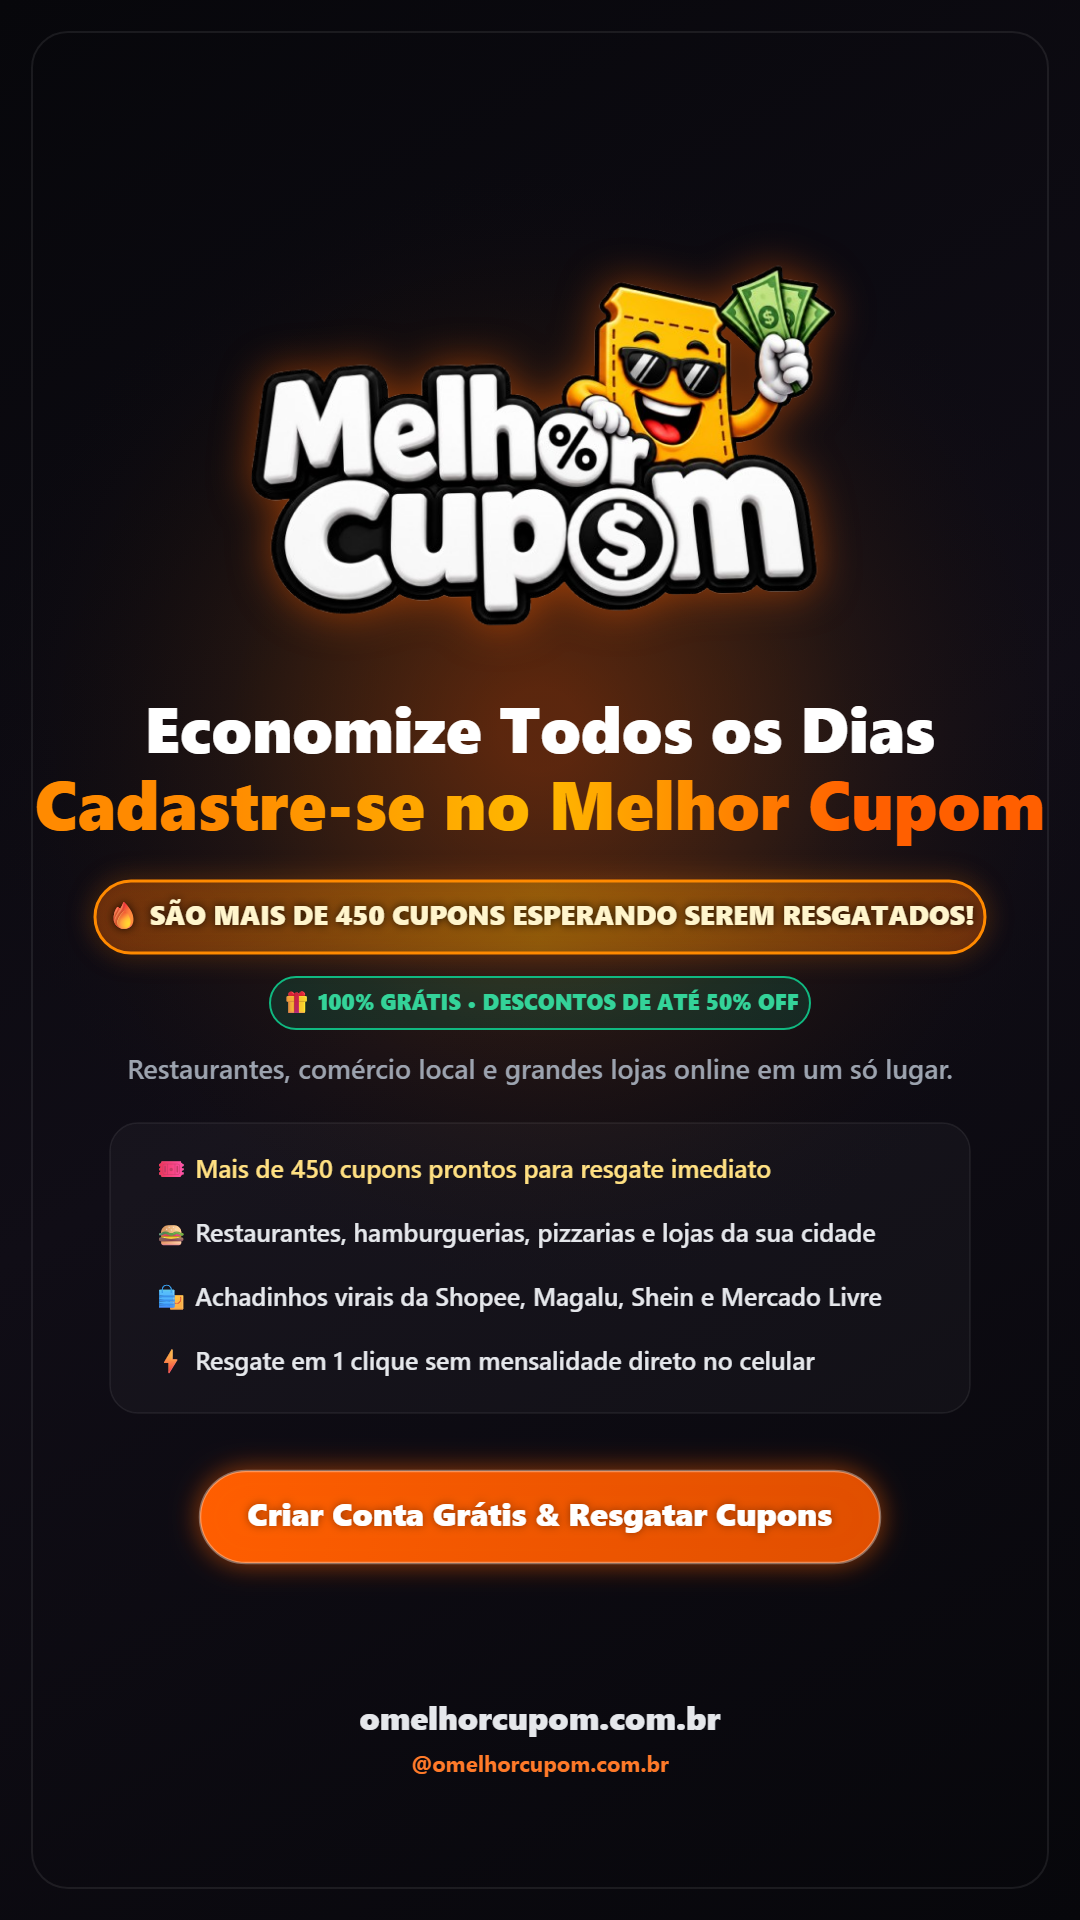
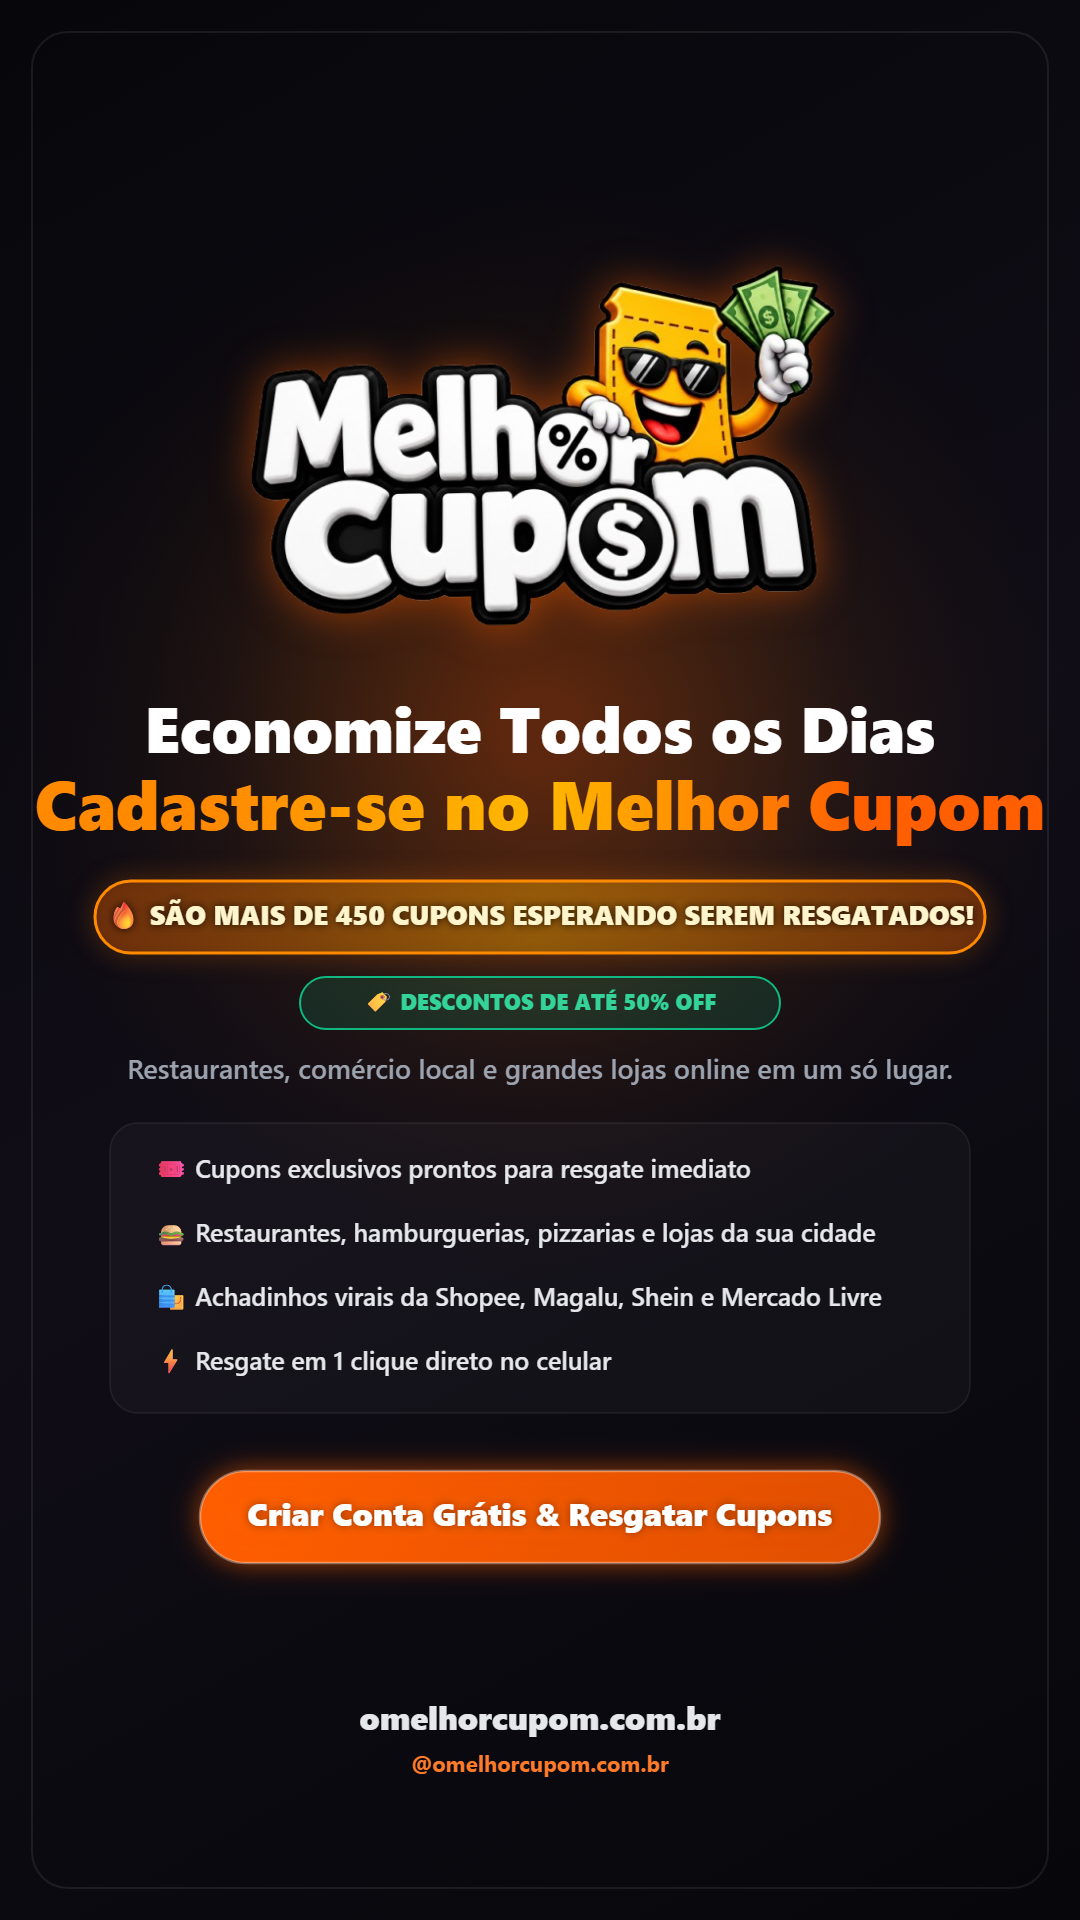
refactor(flyer): remover duplicacao de 450 cupons, remover 100% gratis e retirar sem mensalidade

Changed region(s): [[0.2444, 0.5, 0.7639, 0.5625], [0.1833, 0.5938, 0.7028, 0.625], [0.3972, 0.6875, 0.7639, 0.7188]]

diff --git a/src/components/BrandMediaKitSection.jsx b/src/components/BrandMediaKitSection.jsx
@@ -332,9 +332,9 @@ export const BrandMediaKitSection = ({ compact = false }) => {
     ctx.fillText('🔥 SÃO MAIS DE 450 CUPONS ESPERANDO SEREM RESGATADOS!', width / 2, badgeY + badgeH / 2 + 1);
     ctx.restore();
 
-    // 6. Selo Elegante e Minimalista: "🎁 100% GRÁTIS • ATÉ 50% OFF"
+    // 6. Selo Elegante: "DESCONTOS DE ATÉ 50% OFF"
     const pillY = badgeY + badgeH + (isStory ? 24 : 16);
-    const pillW = isStory ? 540 : 430;
+    const pillW = isStory ? 480 : 380;
     const pillH = isStory ? 52 : 38;
     const pillX = (width - pillW) / 2;
 
@@ -351,7 +351,7 @@ export const BrandMediaKitSection = ({ compact = false }) => {
     ctx.font = isStory ? '900 22px "Inter", "Segoe UI", sans-serif' : '900 16px "Inter", "Segoe UI", sans-serif';
     ctx.textAlign = 'center';
     ctx.textBaseline = 'middle';
-    ctx.fillText('🎁 100% GRÁTIS • DESCONTOS DE ATÉ 50% OFF', width / 2, pillY + pillH / 2 + 1);
+    ctx.fillText('🏷 DESCONTOS DE ATÉ 50% OFF', width / 2, pillY + pillH / 2 + 1);
     ctx.restore();
 
     // 7. Subtítulo Limpo
@@ -381,17 +381,17 @@ export const BrandMediaKitSection = ({ compact = false }) => {
       ctx.stroke();
 
       const perks = [
-        '🎟 Mais de 450 cupons prontos para resgate imediato',
+        '🎟 Cupons exclusivos prontos para resgate imediato',
         '🍔 Restaurantes, hamburguerias, pizzarias e lojas da sua cidade',
         '🛍 Achadinhos virais da Shopee, Magalu, Shein e Mercado Livre',
-        '⚡ Resgate em 1 clique sem mensalidade direto no celular'
+        '⚡ Resgate em 1 clique direto no celular'
       ];
 
       ctx.textAlign = 'left';
       ctx.textBaseline = 'middle';
       ctx.font = '600 25px "Inter", "Segoe UI", sans-serif';
       perks.forEach((perk, idx) => {
-        ctx.fillStyle = idx === 0 ? '#FFE082' : '#E5E7EB';
+        ctx.fillStyle = '#E5E7EB';
         ctx.fillText(perk, cardX + 44, cardY + 48 + (idx * 64));
       });
       ctx.restore();
@@ -641,10 +641,10 @@ export const BrandMediaKitSection = ({ compact = false }) => {
 
 Você sabia que no Melhor Cupom são mais de 450 cupons de desconto ativos esperando por você? Dá pra economizar em restaurantes, hamburguerias, pizzarias e serviços da nossa cidade, além de grandes lojas da internet (Shopee, Magalu, Shein e Mercado Livre)!
 
-🎁 *CADASTRO 100% GRATUITO:*
-✅ Mais de 450 cupons prontos para resgate imediato
+🎁 *CADASTRO RÁPIDO & FÁCIL:*
+✅ Cupons exclusivos prontos para resgate imediato
 ✅ Economize até 50% OFF na sua conta
-✅ Sem mensalidade, resgate direto pelo celular
+✅ Resgate em 1 clique direto pelo celular
 ✅ Apresente o cupom no balcão ou use online
 ✅ Clube VIP com ofertas exclusivas e secretas
 

diff --git a/src/components/PromotionalKit.jsx b/src/components/PromotionalKit.jsx
@@ -931,7 +931,7 @@ export const AdminPromoManager = ({ stores = [], showToast = () => {} }) => {
     if (selectedStoreId === 'promo_cadastro_usuario') {
       const activeHandle = instagramSession?.username || '@omelhorcupom.com.br';
       setCustomCaption(
-        `🎟 *SÃO MAIS DE 450 CUPONS ESPERANDO SEREM RESGATADOS!* 🔥✨\n\nVocê sabia que no Melhor Cupom são mais de 450 cupons de desconto ativos esperando por você? Dá pra economizar em restaurantes, hamburguerias, pizzarias e serviços da nossa cidade, além de grandes lojas da internet (Shopee, Magalu, Shein e Mercado Livre)!\n\n🎁 *CADASTRO 100% GRATUITO:*\n✅ Mais de 450 cupons prontos para resgate imediato\n✅ Economize até 50% OFF na sua conta\n✅ Sem mensalidade, resgate direto pelo celular\n✅ Apresente o cupom no balcão ou use online\n✅ Clube VIP com ofertas exclusivas e secretas\n\n👉 Acesse o link da nossa bio ${activeHandle} ou acesse:\nhttps://www.omelhorcupom.com.br\n\n#MelhorCupom #Economia #Descontos #CuponsGratis #ComercioLocal #Restaurantes #Shopee #Magalu #Shein`
+        `🎟 *SÃO MAIS DE 450 CUPONS ESPERANDO SEREM RESGATADOS!* 🔥✨\n\nVocê sabia que no Melhor Cupom são mais de 450 cupons de desconto ativos esperando por você? Dá pra economizar em restaurantes, hamburguerias, pizzarias e serviços da nossa cidade, além de grandes lojas da internet (Shopee, Magalu, Shein e Mercado Livre)!\n\n🎁 *CADASTRO RÁPIDO & FÁCIL:*\n✅ Cupons exclusivos prontos para resgate imediato\n✅ Economize até 50% OFF na sua conta\n✅ Resgate em 1 clique direto pelo celular\n✅ Apresente o cupom no balcão ou use online\n✅ Clube VIP com ofertas exclusivas e secretas\n\n👉 Acesse o link da nossa bio ${activeHandle} ou acesse:\nhttps://www.omelhorcupom.com.br\n\n#MelhorCupom #Economia #Descontos #CuponsGratis #ComercioLocal #Restaurantes #Shopee #Magalu #Shein`
       );
       return;
     }

diff --git a/src/components/PartnerPromoArtsSection.jsx b/src/components/PartnerPromoArtsSection.jsx
@@ -44,10 +44,10 @@ export const PartnerPromoArtsSection = ({ compact = false }) => {
 
 Você sabia que no Melhor Cupom são mais de 450 cupons de desconto ativos esperando por você? Dá pra economizar em restaurantes, hamburguerias, pizzarias e serviços da nossa cidade, além de grandes lojas da internet (Shopee, Magalu, Shein e Mercado Livre)!
 
-🎁 *CADASTRO 100% GRATUITO:*
-✅ Mais de 450 cupons prontos para resgate imediato
+🎁 *CADASTRO RÁPIDO & FÁCIL:*
+✅ Cupons exclusivos prontos para resgate imediato
 ✅ Economize até 50% OFF na sua conta
-✅ Sem mensalidade, resgate direto pelo celular
+✅ Resgate em 1 clique direto pelo celular
 ✅ Apresente o cupom no balcão ou use online
 ✅ Clube VIP com ofertas exclusivas e secretas
 
